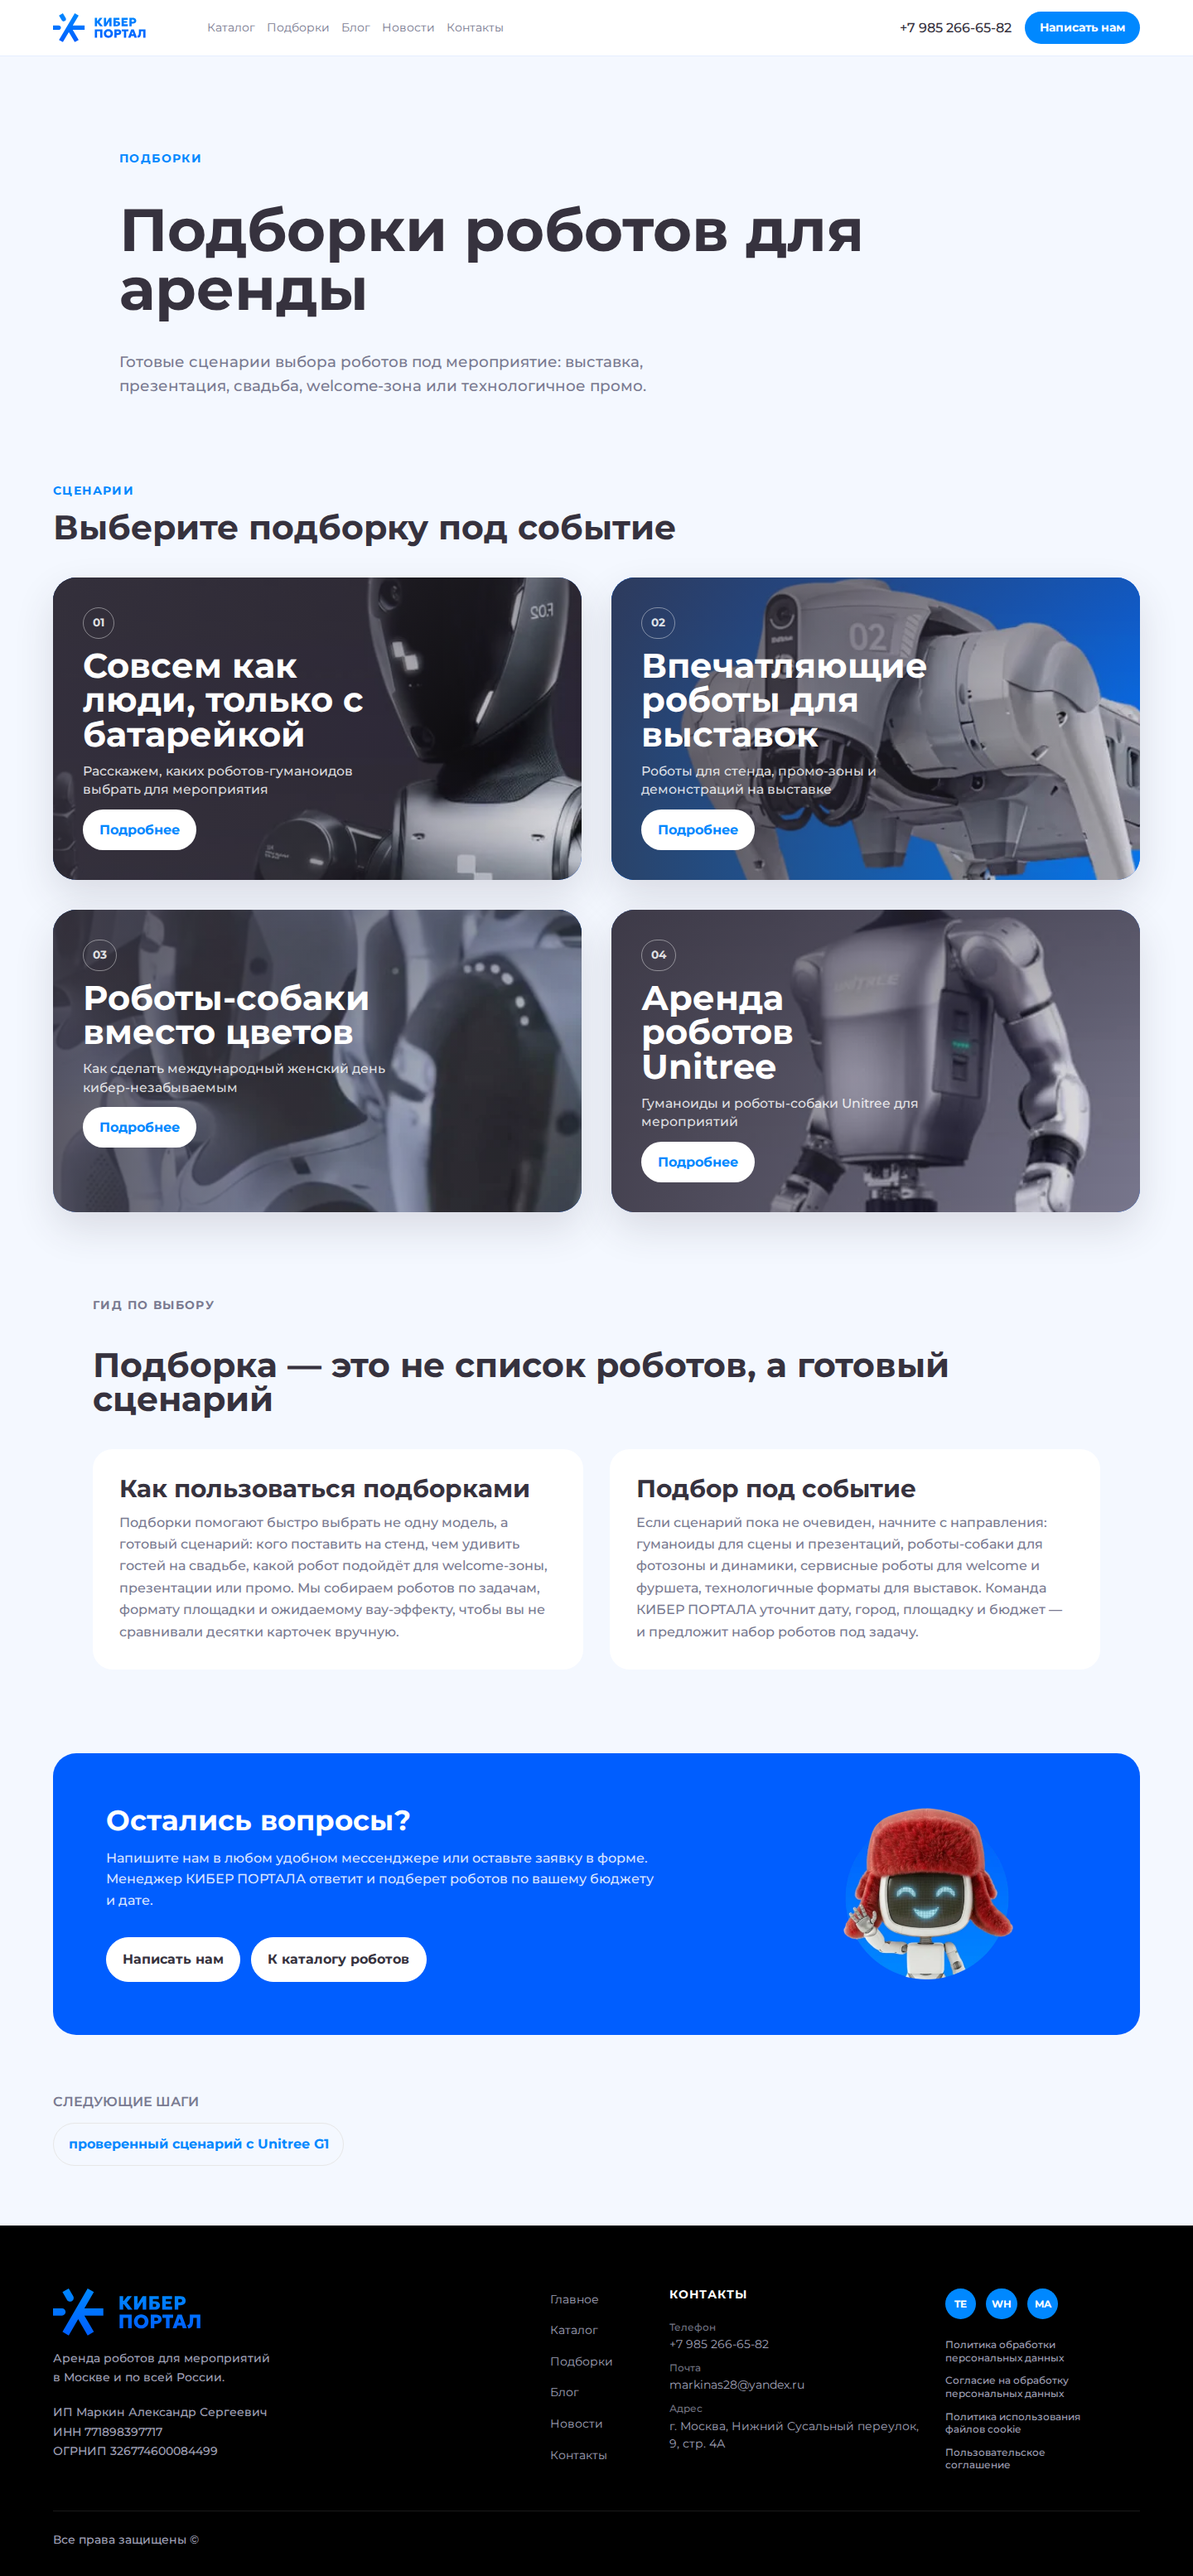
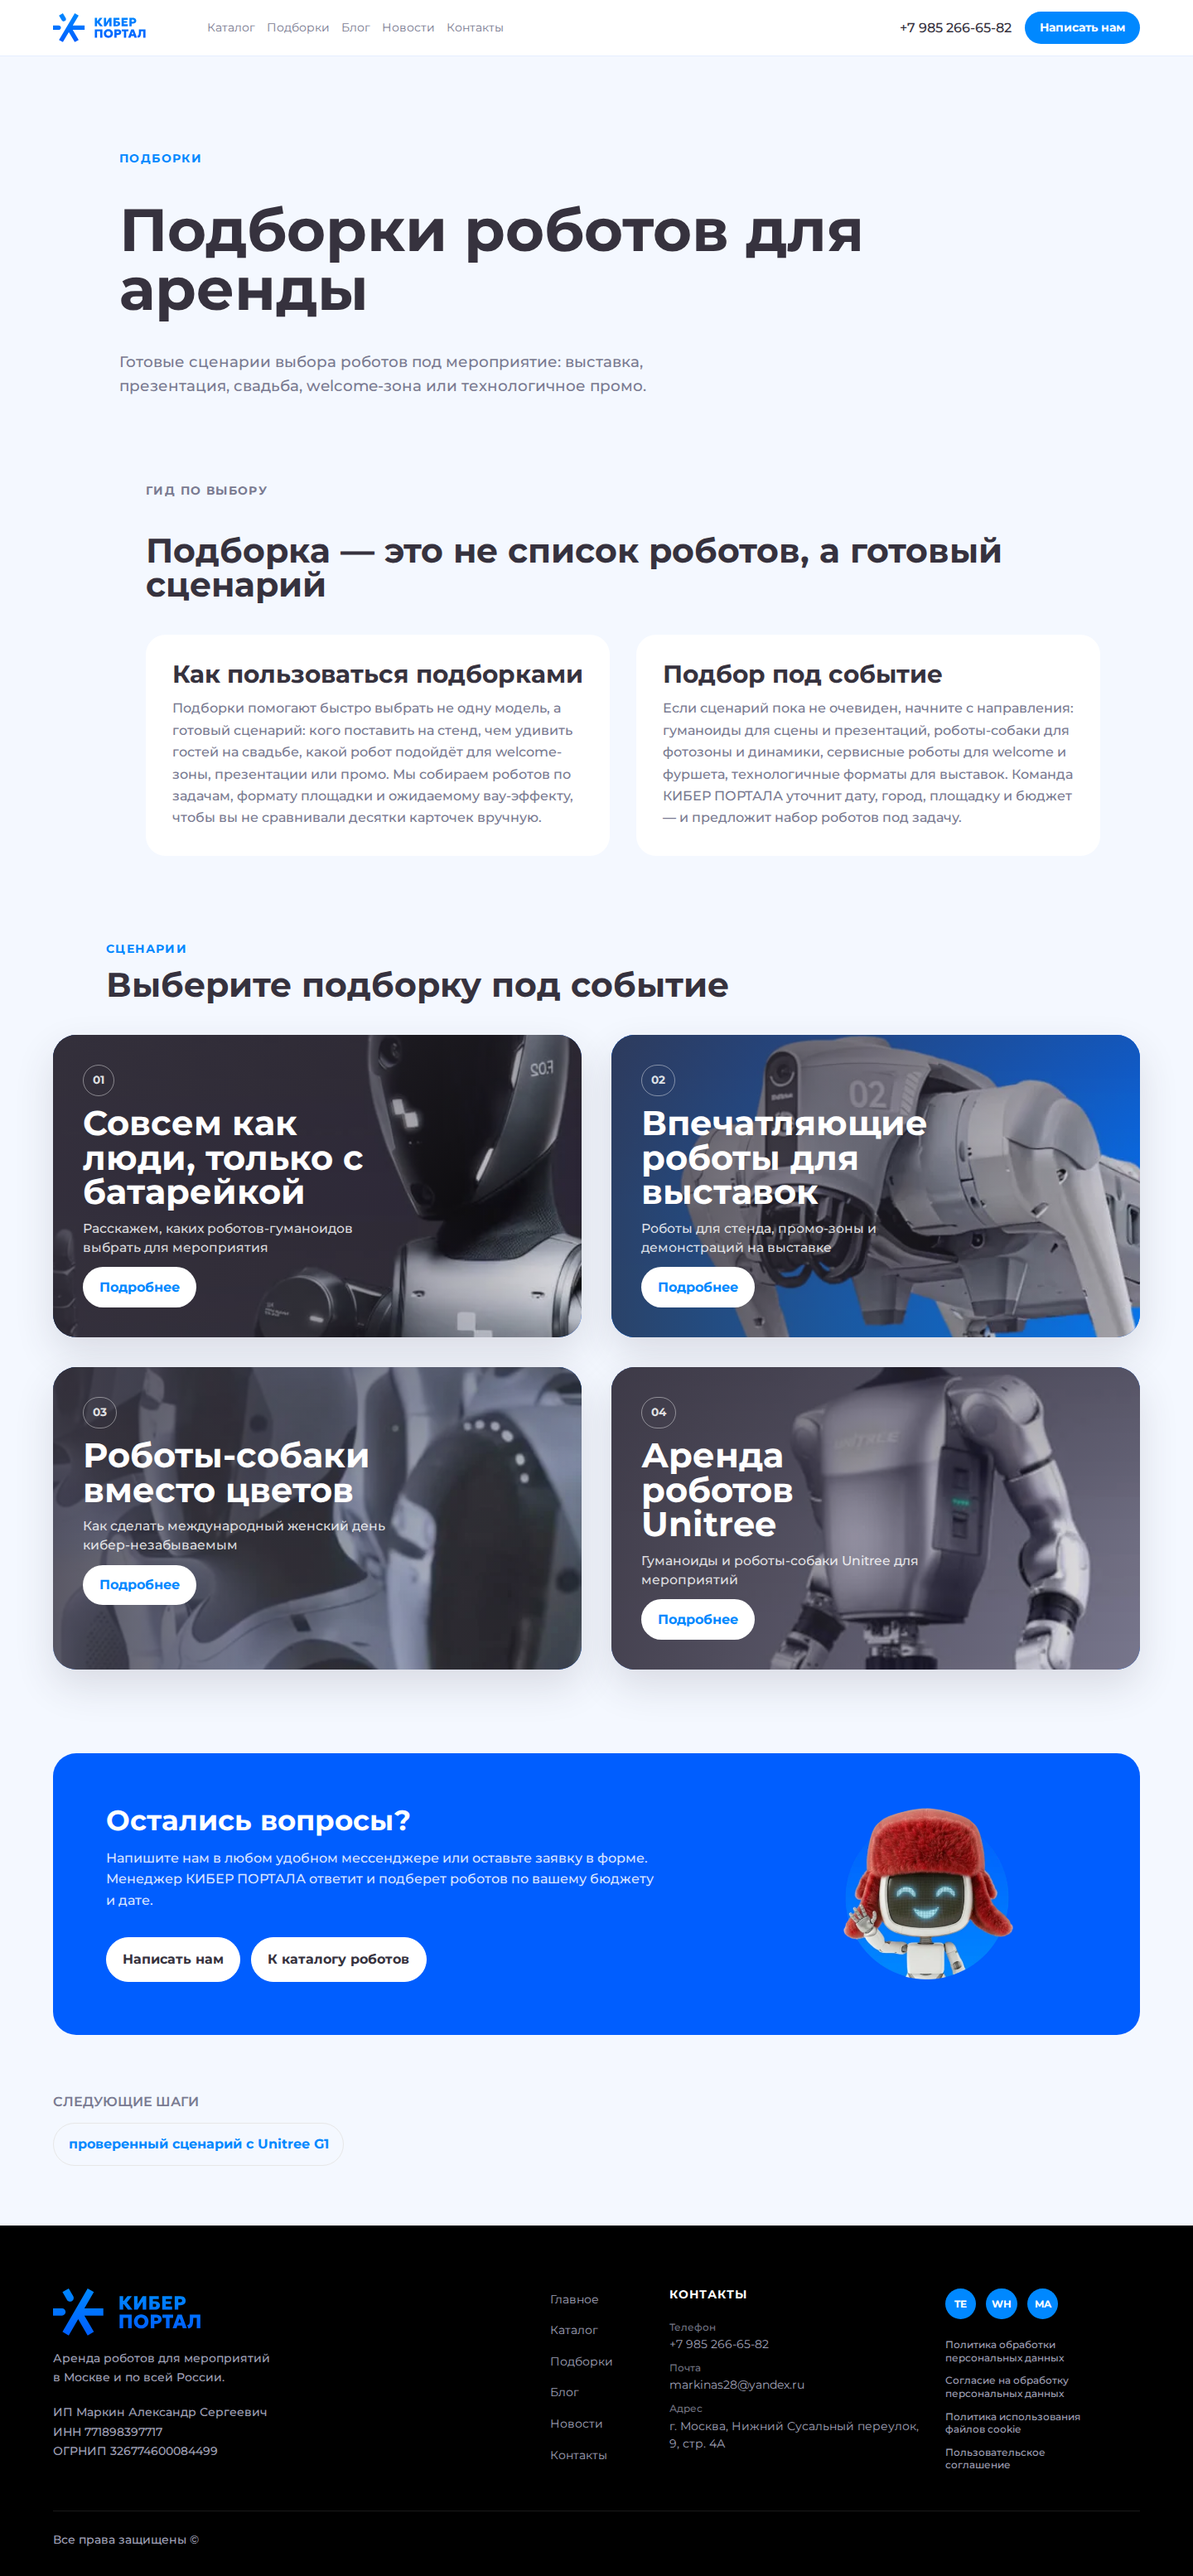
fix: reposition compilations guide block

diff --git a/tests/visual/compilations-index-page.test.ts b/tests/visual/compilations-index-page.test.ts
@@ -17,6 +17,13 @@ test('KIBER-91 compilations index is not a placeholder page', () => {
   assert.match(page, /class="compilations-page__card"/);
   assert.match(page, /Подборка — это не список роботов, а готовый сценарий/);
   assert.match(page, /<HomeFinalCta \{\.\.\.homeFinalCta\} \/>/);
+  assert.match(page, /compilations-page__hero[\s\S]*compilations-page__text[\s\S]*compilations-page__cards[\s\S]*compilations-page__cta/);
+});
+
+test('KIBER-91 compilations scenario and guide blocks use owner-requested left inset', () => {
+  assert.match(page, /compilations-page__section-copy compilations-page__section-copy--inset/);
+  assert.match(page, /@media \(min-width: 40rem\)[\s\S]*compilations-page__section-copy--inset,[\s\S]*compilations-page__text > \.compilations-page__eyebrow,[\s\S]*compilations-page__text > h2,[\s\S]*compilations-page__text-grid[\s\S]*margin-inline-start:\s*clamp\(1\.75rem, 5vw, 4rem\)/);
+  assert.doesNotMatch(page, /@media \(max-width: 39\.9375rem\)[\s\S]*\.compilations-page__text \{\s*padding-inline-start:\s*0/);
 });
 
 test('KIBER-91 compilations index uses two-column card layout on desktop', () => {
